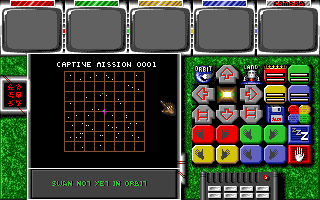
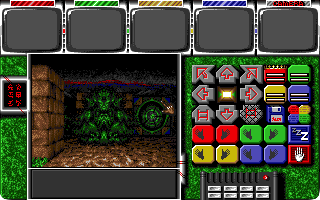
Harden authentic Captive emulator verification

diff --git a/docs/CAPTIVE_HOLAMAP_REFERENCE.md b/docs/CAPTIVE_HOLAMAP_REFERENCE.md
@@ -37,8 +37,10 @@ The zoom captures are:
 - `assets/captive/holamap-zoom-in.png` — `NUMPAD 3`
[1 lines of base64/hex data omitted]
 
-The complete verified checkpoint set currently contains the real CAPPO frames
-listed below:
+The reference set contains real CAPPO frames captured during separate
+DOSBox-X sessions. It is not, by itself, proof that one replay completed the
+whole route; a replay gate must authenticate each transition from the current
+CAPPO VGA surface before OpenCaptive changes phase.
 
 - `assets/captive/holamap-target.png` — the source-authenticated Butre-route
   navigation frame, where the green point identifies the planet destination
@@ -62,7 +64,8 @@ coordinate reaches the recorded target. The authenticated orbit frame is
 accepted only after a live CAPPO/DOSBox-X handoff proves that CAPPO has
 reached orbit. The landed surface remains a real checkpoint until the CAPPO
 mission/runtime decoder can supply live dungeon state; no generated dungeon
-is used.
+is used. A second Orbit button press or keypad-7 command is not treated as
+arrival; the original runtime must first report arrival.
 
 The native diagnostic path keeps the landing transition open until a live
 CAPPO/DOSBox-X handoff proves the landed state. It does not use a wall-clock

diff --git a/docs/Captive-Technical.md b/docs/Captive-Technical.md
@@ -179,6 +179,12 @@ frame comparison to pass. The gate also requires multiple authentic frame
 changes. It is local-only because the original media is supplied by the
 player; no map, position, graphics, or text is generated by the helper.
 
+For timing diagnostics, the optional live FIFO also accepts `WAIT:<ticks>`.
+This advances only the original CAPPO timer (1–2000 ticks) and injects no
+keyboard scan. It is useful for separating CAPPO's `FLIGHT PATH SET` phase
+from `ARRIVED AT DESTINATION`; a changed coordinate or VGA surface alone is
+not an arrival proof.
+
 OpenCaptive starts the original `INTRO` → `FILEPLAY` → `CAPPO` chain, waits for
 CAPPO's relocated IRQ1 queue, sends the original XT make scan for each arrow or
 numpad action, and reloads the resulting DOSBox-X VGA dump. The OpenCaptive
